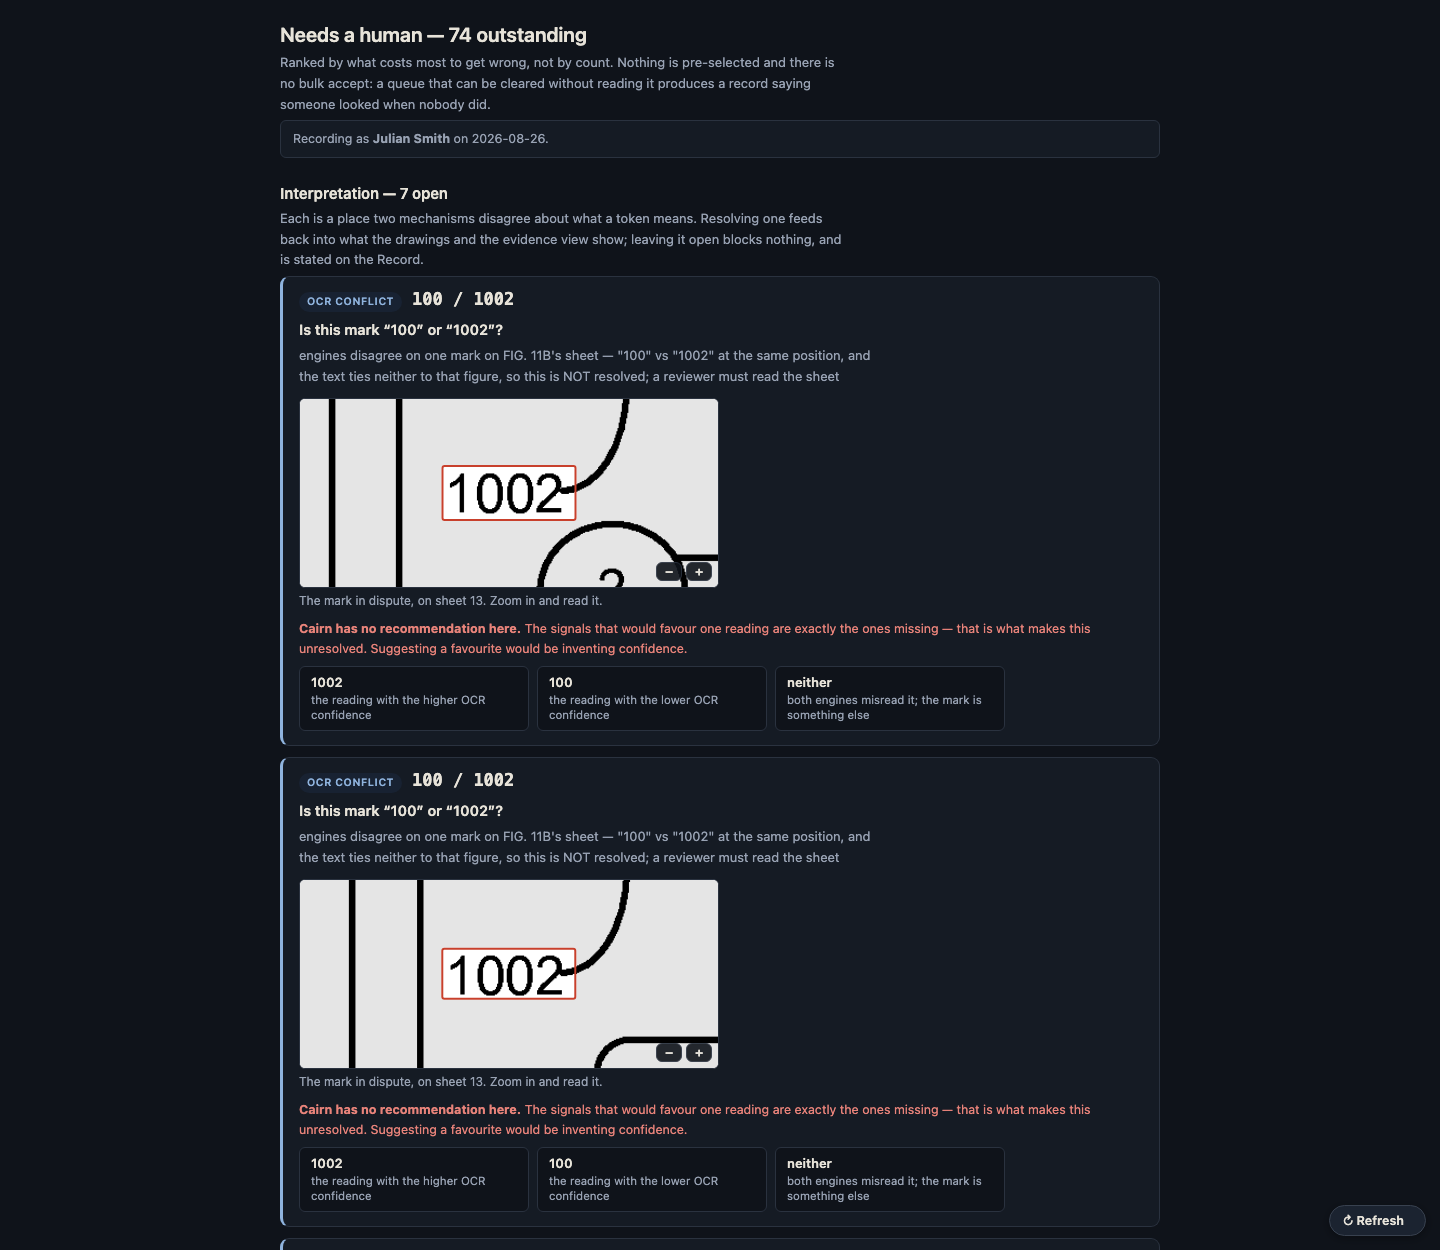
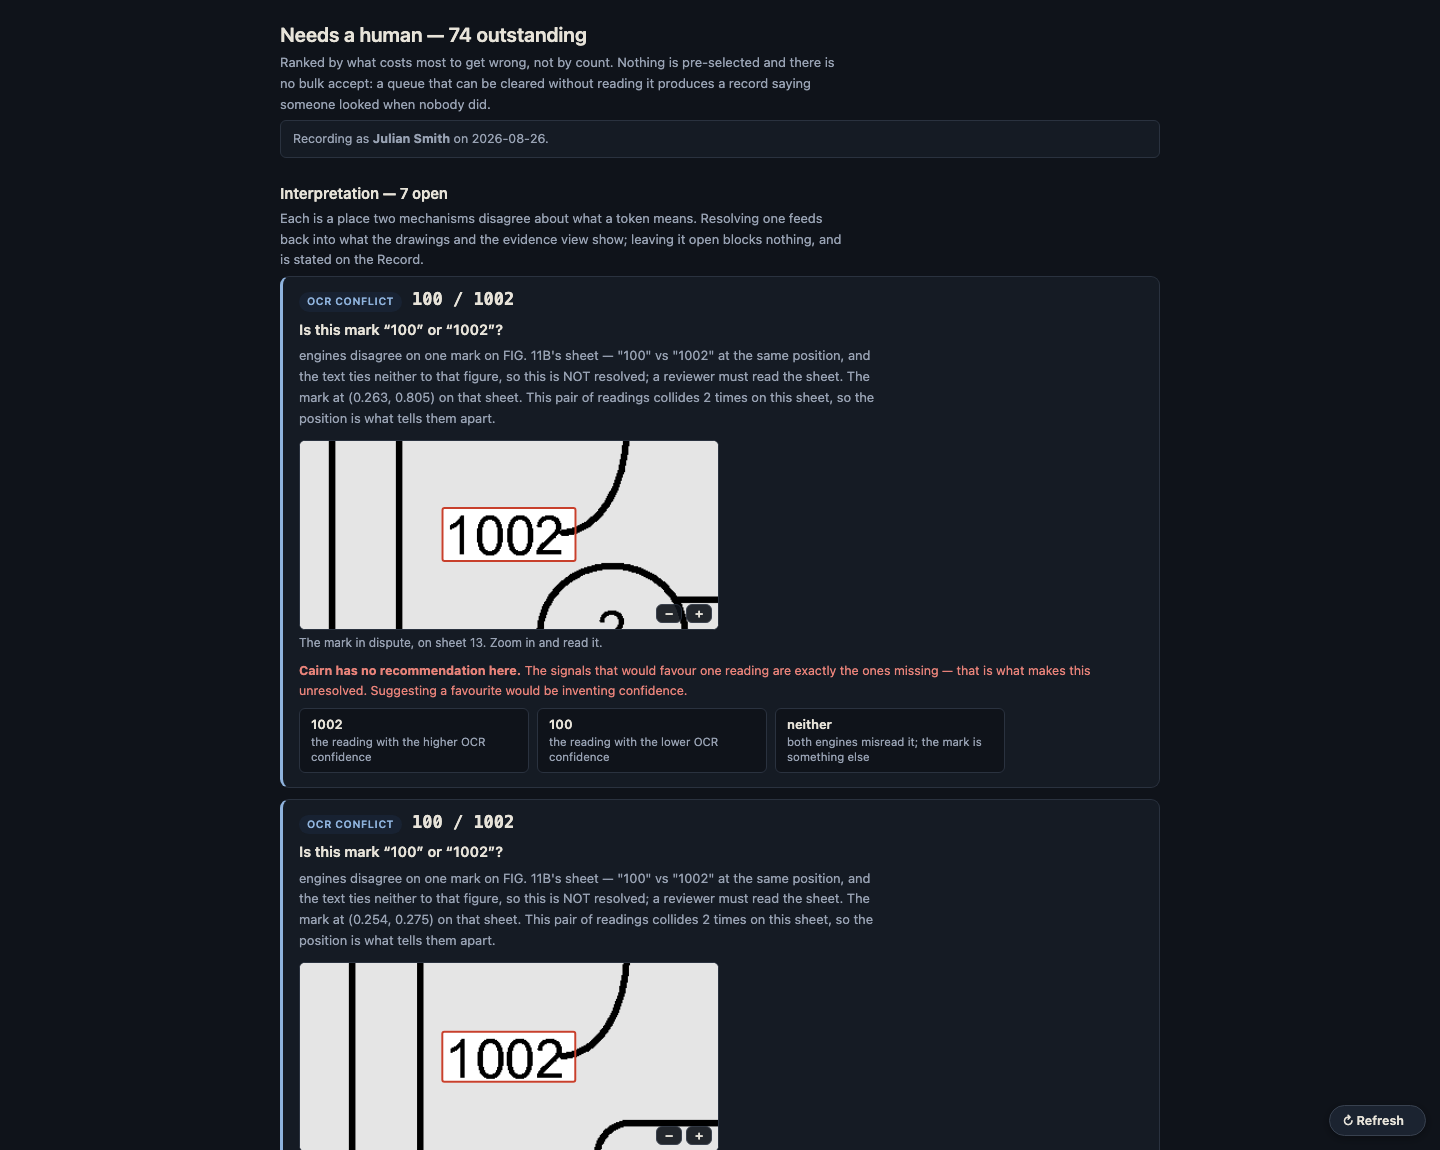
D86: give an ambiguity id its position, so two marks are two questions
Julian spotted two identical-looking rows in the adjudicate screenshot and offered
to crop it. Cropping would have hidden a defect on the judgment path.

ocr_conflict ids were kind:pN:a-b, which collides whenever the same pair of
readings is disputed twice on one sheet -- the Apple demo's sheet 13 carries two
100/1002 conflicts at opposite ends of the page. Resolving one would have recorded
a judgment whose id matched BOTH, dropped both from the queue, and left the second
mark unreviewed while the record said a human had ruled on it. That is the D69/D84
family again -- a judgment applying to something it did not name -- on the one path
where exactness is the whole product.

Ids now carry a @XXXXxYYYY suffix derived from the frozen manifest coordinates, so
they are stable across rebuilds. The row states the mark's position, and says the
pair collides more than once ONLY where it does: putting that sentence on every row
tells the reader a unique mark is one of several, which is a small false statement
repeated on every row of a judgment surface.

Legacy ids (recorded before the suffix) still close their ambiguity when they cover
exactly one, and reopen BOTH when they cover more. Deliberately asymmetric:
reopening costs a reviewer a second look, while closing a mark nobody examined puts
their name on a judgment they never made, and only one of those is recoverable.
Julian's nine engagement rulings still resolve -- 0 open, unchanged.
[…]

Changed region(s): [[0.1875, 0.0, 0.75, 1.0], [0.9375, 0.9739, 0.9688, 1.0]]

diff --git a/src/cairn/ambiguity.py b/src/cairn/ambiguity.py
@@ -31,7 +31,7 @@ The shape of the fix, and its boundary:
 from __future__ import annotations
 
 import re
-from dataclasses import dataclass, field
+from dataclasses import dataclass, field, replace
 
 # Ambiguity kinds, most consequential first — the same ranking discipline the review
 # queue uses, and for the same reason: a list not ordered by cost is read top-down and
@@ -130,6 +130,34 @@ def numeral_sense(text: str, mentions) -> list[Ambiguity]:
     return out
 
 
+def _joined(lead: str, tail: str) -> str:
+    """Two sentences, joined without running together. The upstream message does not end
+    in punctuation, so appending to it produced "must read the sheet This is the mark"."""
+    lead = lead.rstrip()
+    if not tail:
+        return lead
+    sep = " " if lead.endswith((".", "!", "?", ";")) else ". "
+    return f"{lead}{sep}{tail}"
+
+
+def _spot(bbox) -> str:
+    """A position suffix, so two marks disputing the SAME pair of readings on the same
+    sheet are two questions rather than one (D86).
+
+    Sheet 13 of the Apple demo carries two 100/1002 conflicts at opposite ends. Without
+    this they shared an `amb_id`, which is not a cosmetic duplicate: resolving one would
+    record a judgment matching BOTH, drop both from the queue, and leave the second mark
+    unreviewed while the record said a human had ruled on it. The same family as D69 and
+    D84 — a judgment applying to something it did not name — and on the one path where
+    exactness is the whole product.
+
+    Derived from the frozen manifest's coordinates, so it is stable across rebuilds.
+    """
+    if not bbox:
+        return ""
+    return f"@{int(round(bbox[0] * 10000)):04d}x{int(round(bbox[1] * 10000)):04d}"
+
+
 def ocr_conflict(coverage) -> list[Ambiguity]:
     """Two engines read one mark differently and the text favours neither.
 
@@ -152,20 +180,23 @@ def ocr_conflict(coverage) -> list[Ambiguity]:
             continue
         page = m.get("page")
         pair = sorted((lower, higher), key=lambda s: (len(s), s))
+        bbox = m.get("bbox")
         out.append(Ambiguity(
-            amb_id=f"{OCR_CONFLICT}:p{page}:{pair[0]}-{pair[1]}",
+            amb_id=f"{OCR_CONFLICT}:p{page}:{pair[0]}-{pair[1]}{_spot(bbox)}",
             kind=OCR_CONFLICT,
             label=f"{pair[0]} / {pair[1]}",
             question=f"Is this mark “{pair[0]}” or “{pair[1]}”?",
-            detail=m.get("message", "Two readings of one mark; nothing reconciled them."),
+            detail=_joined(
+                m.get("message", "Two readings of one mark; nothing reconciled them."),
+                (f"The mark at ({bbox[0]:.3f}, {bbox[1]:.3f}) on that sheet."
+                 if bbox else "")),
             options=(
                 Option(higher, "the reading with the higher OCR confidence"),
                 Option(lower, "the reading with the lower OCR confidence"),
                 Option("neither", "both engines misread it; the mark is something else"),
             ),
             proposed="",          # deliberately none — see the docstring
-            where={"page": page, "readings": [lower, higher],
-                   "bbox": m.get("bbox")},
+            where={"page": page, "readings": [lower, higher], "bbox": bbox},
         ))
     return out
 
@@ -267,7 +298,14 @@ def collect(*, text: str = "", mentions=(), coverage=None, assignments=(),
     work, while the rulings themselves live forever in the adjudication log. Clearing
     an item never clears the record of clearing it.
     """
-    done = resolved or set()
+    done = _resolved_ids(resolved or set(), _detect(text, mentions, coverage, assignments))
+    found: list[Ambiguity] = []
+    found = _detect(text, mentions, coverage, assignments)
+    return sorted((a for a in found if a.amb_id not in done),
+                  key=lambda a: (a.rank, len(a.label), a.label))
+
+
+def _detect(text, mentions, coverage, assignments) -> list[Ambiguity]:
     found: list[Ambiguity] = []
     if text and mentions:
         found += numeral_sense(text, mentions)
@@ -276,8 +314,48 @@ def collect(*, text: str = "", mentions=(), coverage=None, assignments=(),
         found += ocr_conflict(coverage)
     if assignments:
         found += figure_guess(assignments)
-    return sorted((a for a in found if a.amb_id not in done),
-                  key=lambda a: (a.rank, len(a.label), a.label))
+    return _note_siblings(found)
+
+
+def _note_siblings(found: list[Ambiguity]) -> list[Ambiguity]:
+    """Say "this pair collides more than once here" only where it actually does.
+
+    The position belongs on every conflict row — it is how a reviewer finds the mark.
+    The EXPLANATION for why the position matters belongs only on the rows that have a
+    sibling; putting it everywhere tells the reader a unique mark is one of several,
+    which is a small false statement made on every row of a judgment surface.
+    """
+    from collections import Counter
+    stems = Counter(a.amb_id.split("@")[0] for a in found if "@" in a.amb_id)
+    out = []
+    for a in found:
+        stem = a.amb_id.split("@")[0]
+        if "@" in a.amb_id and stems[stem] > 1:
+            a = replace(a, detail=_joined(
+                a.detail,
+                f"This pair of readings collides {stems[stem]} times on this sheet, so "
+                f"the position is what tells them apart."))
+        out.append(a)
+    return out
+
+
+def _resolved_ids(recorded: set[str], found: list[Ambiguity]) -> set[str]:
+    """Which ambiguities a set of recorded rulings actually closes.
+
+    Conflict ids gained a position suffix (D86), so a ruling recorded before that carries
+    the bare `kind:pN:a-b` form. Honouring it keeps completed review work closed — but
+    only where it is UNAMBIGUOUS. A legacy id that now covers two marks cannot say which
+    one the reviewer looked at, so both stay open: reopening work the reviewer may have
+    done costs them a second look, while closing a mark nobody examined puts their name
+    on a judgment they never made. Only one of those errors is recoverable.
+    """
+    ids = {a.amb_id for a in found}
+    out = set(recorded) & ids
+    for legacy in recorded - ids:
+        covered = [i for i in ids if i.startswith(legacy + "@")]
+        if len(covered) == 1:
+            out.add(covered[0])
+    return out
 
 
 def apply_to_manifest(manifest: dict, judgments) -> dict:

diff --git a/tests/test_ambiguity.py b/tests/test_ambiguity.py
@@ -243,3 +243,61 @@ def test_only_ocr_conflicts_touch_marks(tmp_path):
     man = {"pages": [{"page": 2, "numerals": [
         {"numeral": "20", "x": 0.5, "y": 0.5, "w": .03, "h": .02, "confidence": 0.9}]}]}
     assert len(apply_adjudications(man, tmp_path)["pages"][0]["numerals"]) == 1
+
+
+def test_two_marks_disputing_the_same_readings_are_two_questions():
+    """D86: sheet 13 of the Apple demo carries two 100/1002 conflicts at opposite ends.
+
+    Sharing an `amb_id` is not a cosmetic duplicate. Resolving one would record a
+    judgment matching BOTH, drop both from the queue, and leave the second mark
+    unreviewed while the record said a human ruled on it — the D69/D84 family again, on
+    the one path where exactness is the product.
+    """
+    from cairn.ambiguity import ocr_conflict
+
+    cov = _Cov([
+        {"read_as": "100", "actually": "1002", "page": 13, "unresolved": True,
+         "bbox": [0.2628, 0.8052, 0.065, 0.017], "message": "engines disagree"},
+        {"read_as": "100", "actually": "1002", "page": 13, "unresolved": True,
+         "bbox": [0.2538, 0.2746, 0.065, 0.016], "message": "engines disagree"},
+    ])
+    ids = [a.amb_id for a in ocr_conflict(cov)]
+    assert len(set(ids)) == 2, ids
+    assert all("@" in i for i in ids)
+    # …and the rows READ differently, so the reviewer can tell them apart on the page
+    details = [a.detail for a in ocr_conflict(cov)]
+    assert details[0] != details[1]
+    assert "0.805" in details[0] or "0.805" in details[1]
+
+
+def test_the_position_suffix_is_stable_across_rebuilds():
+    """It comes from the frozen manifest's coordinates, so a resolution keeps pointing
+    at the mark it settled."""
+    from cairn.ambiguity import ocr_conflict
+    cov = _Cov([{"read_as": "100", "actually": "1002", "page": 13, "unresolved": True,
+                 "bbox": [0.2628, 0.8052, 0.065, 0.017], "message": "x"}])
+    assert ocr_conflict(cov)[0].amb_id == ocr_conflict(cov)[0].amb_id
+    assert ocr_conflict(cov)[0].amb_id.endswith("@2628x8052")
+
+
+def test_a_legacy_ruling_still_closes_an_unambiguous_ambiguity():
+    """Ids gained a suffix; completed review work must not silently reopen."""
+    from cairn.ambiguity import _resolved_ids, ocr_conflict
+    cov = _Cov([{"read_as": "12", "actually": "72", "page": 6, "unresolved": True,
+                 "bbox": [0.4115, 0.6032, 0.038, 0.021], "message": "x"}])
+    found = ocr_conflict(cov)
+    assert _resolved_ids({"ocr_conflict:p6:12-72"}, found) == {found[0].amb_id}
+
+
+def test_an_ambiguous_legacy_ruling_reopens_both_rather_than_closing_either():
+    """A legacy id covering two marks cannot say which one the reviewer looked at.
+    Reopening costs them a second look; closing a mark nobody examined puts their name
+    on a judgment they never made. Only one of those errors is recoverable."""
+    from cairn.ambiguity import _resolved_ids, ocr_conflict
+    cov = _Cov([
+        {"read_as": "100", "actually": "1002", "page": 13, "unresolved": True,
+         "bbox": [0.2628, 0.8052, 0.065, 0.017], "message": "x"},
+        {"read_as": "100", "actually": "1002", "page": 13, "unresolved": True,
+         "bbox": [0.2538, 0.2746, 0.065, 0.016], "message": "x"},
+    ])
+    assert _resolved_ids({"ocr_conflict:p13:100-1002"}, ocr_conflict(cov)) == set()

diff --git a/DECISIONS.md b/DECISIONS.md
@@ -97,3 +97,4 @@
 | D10 | 2026-06-25 | **First client engagement retargets the corpus from EDGAR to a patent refresh-and-update** (see [`CAIRN_Patent_Tailoring_Consideration.md`](CAIRN_Patent_Tailoring_Consideration.md), [`CAIRN_Client_Intake_Questions.md`](CAIRN_Client_Intake_Questions.md)). EDGAR 10-K remains the **architecture-proving reference build** (M0–M5); patents are a **specialization of the same engine**, tracked in a new **Patent Engagement** section. The corpus-agnostic engine is shared and keeps being built EDGAR-first (current focus stays M1-T3). Patent-domain cardinal rule, sharpened: **locate & evidence, never adjudicate** — never conclude on novelty/obviousness/validity/infringement/FTO/definitive claim construction (refusal class + Layer-E *negative* evals; UPL boundary, professional in the loop). §10 open decisions (mechanism, jurisdiction, published/confidential, prior-art, output, portfolio) are **DO NOT INVENT** → routed to intake; the two blocking ones are mechanism (Q2) and confidentiality (Q17). Patent work that exceeds the shared engine (document model, typed provenance, structural checks) is a **domain pack**, not a one-file corpus swap. | EDGAR proved the core cheaply and its tests guard the shared engine; patents are the revenue target but most domain-specific choices are still unknown. Building the engine EDGAR-first then layering the patent domain pack reuses proven, tested primitives (Document/I3, SpanStore/D7, eval harness) and avoids rework while intake resolves the unknowns. | Reconcile again once intake answers land (esp. Q2 mechanism, Q17 confidentiality); revisit if a confidential/unpublished patent forces local-only handling that changes the engine. |
 | D84 | 2026-08-18 | **Interpretive rulings feed back into the results.** An `ocr_conflict` resolution now reshapes the manifest: the chosen reading survives at the disputed spot, the rejected one is dropped, and the survivor is restamped `method: human` with the reviewer's name — so the Drawings pane, the reconciliation, the queue and the figure overlay all show what the reviewer decided. A `numeral_sense` ruling of *measurement only* removes the numeral from the TEXT side (`_text_numerals`), so the legend and the drawing/spec reconciliation stop reporting a part the reviewer has said does not exist. Julian's five recorded conflict rulings applied correctly on the first run. | A ruling that changes nothing downstream is a ruling the reviewer stops making. Reading a sheet to settle “is this 12 or 72?” is the most expensive evidence in the system — a human looked — and it was moving a row out of a queue and nothing else, while every surface went on showing both readings. Only `ocr_conflict` touches marks, because it is the only kind that is ABOUT a mark; `numeral_sense` and `element_phrase` are about the text, `figure_guess` about an assignment. | Identity is label PLUS position: sheet 8 carries a second “92” half a page from the disputed one, and it correctly survives. **Checking by label alone reported that ruling as failed three separate times before the check was fixed** — the same coarse-instrument error as D69 and D81, now pinned by a test. `neither` drops both readings: keeping the higher-confidence guess would be the machine overruling the person. Still unbuilt: agent-authored proposals, and feedback for `figure_guess` / `element_phrase`. |
 | D85 | 2026-08-26 | **README shows the console, screenshot by screenshot, built over a PUBLIC patent.** Eight captures of a real build over US 8,046,721 B2 (Apple, slide to unlock) replace a `## Surfaces` section that said “there is no single application yet” and called the console “planned”. Captured headlessly from the live server, so a rebuild reproduces them. Also fixed: the tool table omitted `lint_question`, and the decision count read 47 pointing at ROADMAP. | The clarity standard says a README that lies about its project is a bug of the same severity as a failing test — and this one described a console that has existed for weeks as not existing. The patent is Apple's and public **because** the live engagement is client material that never leaves the machine it is reviewed on; pictures in a public repo have to come from a document anyone can pull from USPTO. | Building it exposed a real display gap: the evidence view re-derived coverage through `check_coverage`, which SKIPS `locator` constraints (they need offsets), so `locator ✓ claim 1` was checked, passed, and then invisible. A verified constraint nobody can see is indistinguishable from one never checked. The view now uses the positional path. |
+| D86 | 2026-08-26 | **An ambiguity id carries its position, so two marks are two questions.** `ocr_conflict` ids were `kind:pN:a-b`, which collides when the same pair of readings is disputed twice on one sheet — the Apple demo's sheet 13 carries two 100/1002 conflicts at opposite ends. Ids gain a `@XXXXxYYYY` suffix from the frozen manifest coordinates; the row states the position, and says a pair collides more than once only where it actually does. A pre-suffix ruling still closes its ambiguity when unambiguous, and reopens BOTH when it is not. | Julian saw two identical-looking rows and offered to crop the screenshot. It was not cosmetic: resolving one would have recorded a judgment matching both, dropped both from the queue, and left the second mark unreviewed **while the record said a human ruled on it**. The D69/D84 family — a judgment applying to something it did not name — on the one path where exactness is the product. | The legacy rule is deliberately asymmetric: reopening work costs a reviewer a second look, closing a mark nobody examined puts their name on a judgment they never made, and only one of those is recoverable. Julian's nine engagement rulings still resolve (0 open, unchanged). |

diff --git a/ROADMAP.md b/ROADMAP.md
@@ -381,3 +381,4 @@ API-wrapped service with **inline entailment-gating** (the structural-intercepti
 - 2026-08-18 · D83 · lint_question — a deterministic pre-flight check on the question, flagging never rewriting.
 - 2026-08-18 · D84 · interpretive rulings reshape the manifest and the text side, not just the queue.
 - 2026-08-26 · D85 · README console tour with eight screenshots over a public Apple patent; locator chip now renders.
+- 2026-08-26 · D86 · ambiguity ids carry position; two marks disputing one pair are two questions.
